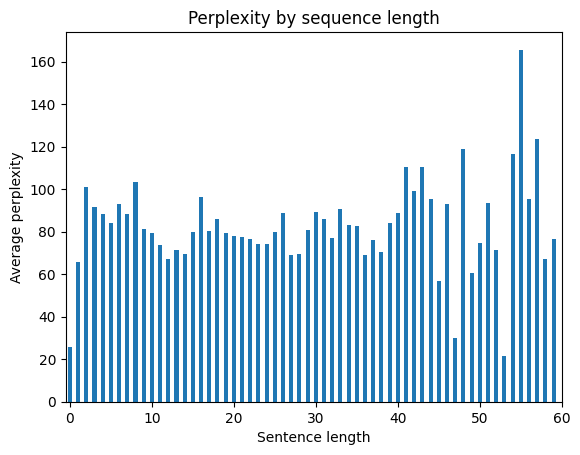
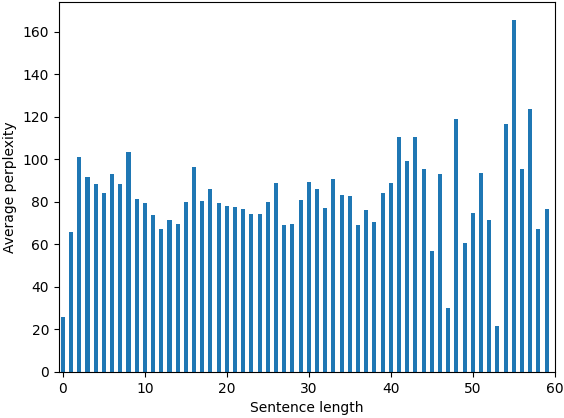
report looks complete

Changed region(s): [[0.0, 0.0, 1.0, 0.9952], [0.9645, 0.0, 0.9947, 0.0311]]

diff --git a/project/report/sections/5_eval.tex b/project/report/sections/5_eval.tex
@@ -13,7 +13,7 @@ In this work we are framing the learning problem as a multi-class classification
 \begin{equation}
     \text{CE} \parenth[\big]{f(x; \theta), y} = -\sum_{i=1}^{N} y_i \log{f(x_i; \theta)}
 \end{equation}
-where $f(x; \theta)$ is the model, $x$ is the input sequence, $y$ is the target sequence, $\theta$ is the set of model parameters and $N$ is the number of classes in the vocabulary. 
+% where $f(x; \theta)$ is the model, $x$ is the input sequence, $y$ is the target sequence, $\theta$ is the set of model parameters and $N$ is the number of classes in the vocabulary. 
 
 The main metric we used to compare and evaluate the models is the \emph{perplexity} (PP). The reason is that PP is a well understood and established metric and it correlates well enough with the model performances on real-world tasks. Although the PP can be defined in multiple ways, it is convenient to use the definition of PP as the exponential of the cross-entropy (CE):
 \begin{equation}
@@ -23,7 +23,7 @@ The main metric we used to compare and evaluate the models is the \emph{perplexi
 % Intuitively, the PP can be interpreted as the number of classes that the model is considering to make a prediction . 
 While the $CE$ gives a measure of how much the model is uncertain about the prediction, the PP can be interpreted as a measure of how many classes the model is considering to make a prediction (\emph{weighted branching factor}). The lower the PP, the less uncertain the model is on which word to predict, the better it is performing.
 
-Additionally, we are further evaluating the best-performing model to excerpt deeper insights in its behaviour. Specifically, we are considering \emph{average PP per sequence length}, \emph{per word predicted vs. target counts difference} and \emph{precision, recall} and \emph{F1 score}. Lastly, we are giving a qualitative evaluation of the model by showing some examples of generated sequences.
+Additionally, we are further evaluating the best-performing model to excerpt deeper insights in its behaviour. Specifically, we are considering \emph{average PP per sequence length}, \emph{per word predicted vs. target counts difference} and \emph{F1 score}. Lastly, we are giving a qualitative evaluation of the model by showing some examples of generated sequences.
 
 \subsection{Results}
 We evaluated every model by performing an evaluation epoch on the \emph{validation} and \emph{test} set with batch size $1$. The results of these evaluation runs are summarized in Tab.\ref{tab:results}.
@@ -32,55 +32,81 @@ We evaluated every model by performing an evaluation epoch on the \emph{validati
     \caption{Results (PP) of the experiments.}
     \label{tab:results}
 \end{table}
-It is worth noting that we decided to scrap \emph{Weight Dropout} on the hidden-to-hidden weight matrices of the LSTM layers. The reason is that the the model with the three dropout techniques (\texttt{merity\_ad}) was achieving worse results than the model with only \emph{Variational Dropout} and \emph{Embedding Dropout} (\texttt{merity\_eld}), as it can be seen in Fig\ref{fig:tl_merity_ads}.
+It is worth noting that we decided to scrap \emph{Weight Dropout} on the hidden-to-hidden weight matrices of the LSTM layers. The reason is that the the model with the three dropout techniques (\texttt{merity\_ad}) was achieving worse results than the model with only \emph{Variational Dropout} and \emph{Embedding Dropout} (\texttt{merity\_eld}), as it can be seen in Fig.\ref{fig:tl_merity_ads}.
 
-\begin{figure}
-    \centering
-    \includegraphics[width=.5\textwidth]{./assets/images/tl_merity_ads}
-    \caption{Training and validation loss  and PP of the models with dombined dropout techniques. The \texttt{merity\_eld} model uses only \emph{Variational Dropout} and \emph{Embedding Dropout}, the \texttt{merity\_ad} model uses all the three dropout techniques and \texttt{merity\_ad\_nohh} removes dropout on the hidden-to-hidden weight matrices in Weight Dropout.}
-    \label{fig:tl_merity_ads}
-\end{figure}
+% \begin{figure}[h!]
+%     \centering
+%     \includegraphics[width=.35\textwidth]{./assets/images/tl_merity_ads}
+%     \caption{
+%         Training and validation  PP of the models with dombined dropout techniques. %The \texttt{merity\_eld} model uses only \emph{Variational Dropout} and \emph{Embedding Dropout}, the \texttt{merity\_ad} model uses all the three dropout techniques and \texttt{merity\_ad\_nohh} removes dropout on the hidden-to-hidden weight matrices in \emph{Weight Dropout}.
+%         }
+%     \label{fig:tl_merity_ads}
+% \end{figure}
+
+\begin{figure*}
+
+    \floatsetup{floatrowsep=Qquad}
+    \begin{floatrow}
+        
+      \ffigbox[\FBwidth]{
+        \caption{
+        Training and validation  PP of the models with dombined dropout techniques. %The \texttt{merity\_eld} model uses only \emph{Variational Dropout} and \emph{Embedding Dropout}, the \texttt{merity\_ad} model uses all the three dropout techniques and \texttt{merity\_ad\_nohh} removes dropout on the hidden-to-hidden weight matrices in \emph{Weight Dropout}.
+        }
+        \label{fig:tl_merity_ads}}
+        {\includegraphics[width=.3\textwidth]{./assets/images/tl_merity_ads}}
+
+    \ffigbox[\FBwidth]{
+        \caption{Ablation study on \texttt{merity\_wd}.}
+        \label{fig:tl_merity_wd}}
+        {\includegraphics[width=.3\textwidth]{./assets/images/tl_merity_wd}}\hskip2em
+
+    \ffigbox[\FBwidth]{
+        \caption{Average PP per sequence length.}
+        \label{fig:avg_pp_per_seq_len}}
+        {\includegraphics[width=.3\textwidth]{./assets/images/ppl_by_len}}
+    \end{floatrow}
+    \end{figure*}
 
 Hence, we performed further experiments on the \texttt{merity\_wd} model. We found out that \texttt{merity\_wd\_nohh} was achieveng better results on the validation set, as in Fig\ref{fig:tl_merity_wd}. This behaviour is probably caused by the fact that dropping out the hidden-to-hidden weights prevents the model from effectively learn long-term dependencies in the sequences. In the end, we decided to keep the \texttt{merity\_ad\_nohh} model as it had the best performances and still little overfitting.
-\begin{figure}
-    \centering
-    \includegraphics[width=.5\textwidth]{./assets/images/tl_merity_wd}
-    \caption{Ablation study on \texttt{merity\_wd}.}
-    \label{fig:tl_merity_wd}
-\end{figure}
+% \begin{figure}[h!]
+%     \centering
+%     \includegraphics[width=.35\textwidth]{./assets/images/tl_merity_wd}
+%     \caption{Ablation study on \texttt{merity\_wd}.}
+%     \label{fig:tl_merity_wd}
+% \end{figure}
 
 For similar reason we decided to discard TBPTT as training algorithm, as it was not improving the performances, and stick with unconstrained BPTT. On the other end, the models with increased embedding and hidden sizes achieved better results; we also reduced the number of LSTM layers from $3$ to $2$ and increased the probabilities of the dropout techniques to account for the increased model size. Similar considerations hold for the usage of \emph{Partial Shuffle}, which ensures less overfitting at the expensive of slightly higher PPs; the reason is that partially shuffling the sentences increases variety in the training data, acting as a sort of data augmentation technique. Lastly, we performed an extensive training experiment on the \texttt{merity\_ad\_nohh\_1024\_ps} model, where we let it train until the validation loss would stop decreasing at epoch $96$; this final and best performing model model scored $83.01$ PP on the validation set and $79.86$ on the test set.
 
 \subsection{Analysis}
-This section is dedicated to the analysis of the best performing model, \texttt{merity\_ad\_nohh\_1024\_ps\_long}. We start by providing some examples of generated sequences, in the format: \emph{<prompt>} (<temperature>) $\rightarrow$ <inferred>:
+This section is dedicated to the analysis of the best performing model, \texttt{merity\_ad\_nohh\_1024\_ps\_long}. We start by providing some examples of generated sequences\footnote{In order to try and use the model, we recommend to use the  TUI application attached to this work.}, in the format: \texttt{<prompt>} (\textless temperature \textgreater) $\rightarrow$ \textless inferred \textgreater:
 \begin{itemize}
-    \item \emph{the} ($1.0$) $\rightarrow$ the major <unk> million foreign equipment received a \$ N million offer for federated and packaged goods companies;
-    \item \emph{the price} ($0.8$) $\rightarrow$ the price for the giant company is about \$ N million;
-    \item \emph{the price} ($1.0$) $\rightarrow$ the price advanced increase in the second quarter in workstations prompting the dollar to a steep rise in the week 's sharp climb in the imports growth of the;
+    \item \texttt{the} ($1.0$) $\rightarrow$ the major \texttt{<unk>} million foreign equipment received a \$ N million offer for federated and packaged goods companies;
+    \item \texttt{the price} ($0.8$) $\rightarrow$ the price for the giant company is about \$ N million;
+    \item \texttt{the price} ($1.0$) $\rightarrow$ the price advanced increase in the second quarter in workstations prompting the dollar to a steep rise in the week 's sharp climb in the imports growth of the;
 \end{itemize}
 
 We can see that the model is able to generate sequences that are roughly syntactically correct. However, the generated sequences are not semantically solid. This is probably due to the fact that the model is not able to learn the meaning of the words, but only their distribution in the sequences. Moreover, it seems that the model has consistent performances on shorter sequences and that it struggles more on longer sequences. This is also visible on the average PP per sequence length, as in Fig.\ref{fig:avg_pp_per_seq_len}: sentences of length shorter than $40$ tokens cause the model to score $60 \le PP \le 100$, slightly increasing as the length decreases. On the other hand, sentences of length longer than $40$ tokens have PP scores as high as $160$ and as low as $20$.
-\begin{figure}
-    \centering
-    \includegraphics[width=.45\textwidth]{./assets/images/ppl_by_len}
-    \caption{Average PP per sequence length.}
-    \label{fig:avg_pp_per_seq_len}
-\end{figure}
+% \begin{figure}[htb]
+%     \centering
+%     \includegraphics[width=.35\textwidth]{./assets/images/ppl_by_len}
+%     \caption{Average PP per sequence length.}
+%     \label{fig:avg_pp_per_seq_len}
+% \end{figure}
 
-If we inspect the counts of predicted and target words in Tab.\ref{tab:diff_counts}, we can see that the model heavily relies on the most present words in the dataset: the 5 most guessed words make up over $50\%$ of the total predictions, while the 5 most present words in the target sequences make up only $20\%$ of the total target words. All of the 10 most guessed words are over-represented in the predictions, except \emph{and} - roughly on par - and \emph{in} - which shows a slightly negative difference. Quite interestingly, the fact that the \emph{\textless eos \textgreater} token is over-represented may indicate that the model has not learned when it is most appropriate to terminate a sentence. 
+If we inspect the counts of predicted and target words in Tab.\ref{tab:diff_counts}, we can see that the model heavily relies on the most present words in the dataset: the 5 most guessed words make up over $50\%$ of the total predictions, while the 5 most present words in the target sequences make up only $20\%$ of the total target words. All of the 10 most guessed words are over-represented in the predictions, except \texttt{and} - roughly on par - and \texttt{in} - which shows a slightly negative difference. Quite interestingly, the fact that the \texttt{<eos>} token is over-represented may indicate that the model has not learned when it is most appropriate to terminate a sentence. 
 
-\begin{table}
+\begin{table}[hbt]
     \centering
     \input{./assets/tables/diff_counts.tex}
     \caption{Per word predicted vs. target counts difference.}
     \label{tab:diff_counts}
 \end{table}
 
-Finally, we can get some interesting insights by looking at the f1-score in Tab.\ref{tab:f1}. Quite expectedly, given the huge size of the targets space and the nature of the task of language modelling, most of the classes have a rather low f1-score; this behaviour is particularly noticeable in the most common words, like \emph{<unk>} ($0.23$) and \emph{the} ($0.34$). However, it is interesting to notate than some very specific words score higher values. If we take a look at the words with highest f1-score with support $\ge 100$, we can see interesting examples like \emph{million} ($0.68$) and \emph{N} ($0.62$), which may indicate that the model was effective in learning where to place numbers and to phrase them together. Scores can get even higher if we reduce the support threshold to $\ge 10$: words that may appear in very specific phrasings show pretty interesting scores (\emph{angeles} ($0.95$), \emph{share} ($0.8$), \emph{estate} ($0.79$)).
+Finally, we can get some interesting insights by looking at the f1-score in Tab.\ref{tab:f1}. Quite expectedly, given the huge size of the targets space and the nature of the task of language modelling, most of the classes have a rather low f1-score; this behaviour is particularly noticeable in the most common words, like \texttt{<unk>} ($0.23$) and \texttt{the} ($0.34$). However, it is interesting to notate than some very specific words score higher values. If we take a look at the words with highest f1-score with support $\ge 100$, we can see interesting examples like \texttt{million} ($0.68$) and \texttt{N} ($0.62$), which may indicate that the model was effective in learning where to place numbers and to phrase them together. Scores can get even higher if we reduce the support threshold to $\ge 10$: words that may appear in very specific phrasings show pretty interesting scores (\texttt{angeles} ($0.95$), \texttt{share} ($0.8$), \texttt{estate} ($0.79$)).
 
-\begin{table}
+\begin{table}[hbt]
     \centering
     \input{./assets/tables/f1.tex}
-    \caption{.}
+    \caption{predicted words ranked by F1 score with various filters on support.}
     \label{tab:f1}
 \end{table}

diff --git a/project/report/sections/4_model.tex b/project/report/sections/4_model.tex
@@ -15,7 +15,7 @@ We employed LSTMs\cite{hochreiter1997lstm} as backbone architecture, as they out
     \item a \emph{recurrent LSTM} layer, which processes the sequence of embeddings and outputs a sequence of hidden states;
     \item a \emph{fully-connected} layer, which maps the hidden states to a sequence of logits.
 \end{itemize}
-Specifically, we are employing two different architectures:
+We have implemented two different architectures:
 \begin{itemize}
     \item \emph{Baseline LSTM}: baseline model with a single-layer LSTM with \(300\) hidden units;
     \item \emph{Merity LSTM}: refined architecture featuring a set of regularization technique, which will be discussed later.
@@ -25,16 +25,16 @@ Specifically, we are employing two different architectures:
 The complete experiment pipeline is structured as follows.
 \begin{enumerate}
     \item \emph{Data loading}: the dataset is downloaded, extracted and loaded into memory.
-    \item \emph{Data pre-processing}: the dataset is pre-processed to be ready to be fed to the model. Specifically, the following operations are performed:
+    \item \emph{Data pre-processing}: in order to be ready to be fed to the model, the following operations are performed:
     \begin{itemize} 
         \item each sentence is tokenized by splitting on whitespaces;
         \item a \texttt{<eos>} token is appended to each sentence;
         \item the vocabulary mappings are created.
     \end{itemize}
-    \item \emph{Data batching and  collation}: the dataset is batched to be fed to the model; specifically, the dataset is padded to the length of the longest sequence in the batch before the batch is collated to be fed to the model. Furthermore, the collate function can also perform the following operations depending on the model configuration:
+    \item \emph{Data batching and  collation}: the dataset is padded to the length of the longest sequence in the batch before the batch is collated to be fed to the model. Additionally, depending on the experiment configuration the collate function can also perform the following operations:
     \begin{itemize}
-        \item the sentences can be split into chunks of a fixed length to implement Truncated Backpropagation Through Time (TBPTT);
-        \item the sentences can be partially shuffled.
+        \item it can split sentences into chunks of a fixed length to implement TBPTT;
+        \item it can partially shuffle sentences.
     \end{itemize}
     \item \emph{Model training}: the model is trained on the training set; we will also perform a validation epoch on the validation set in order to monitor the model learning behaviour and to tune the hyper-parameters.
     \item \emph{Model evaluation}: the model is evaluated on the test set according to the evaluation metrics and pipeline (see Sec.\ref{sec:5_eval}).
@@ -43,22 +43,24 @@ The complete experiment pipeline is structured as follows.
 \subsection{Regularization}
 Sequence models are prone to overfitting, as they are trained on long sequences and they have to capture long-term dependencies. To cope with this problem, we employed the following regularization techniques suggested by \cite{merity2017regularizing}:
 \begin{itemize}
-    \item \emph{Variational Dropout}\cite{gal2016theoretically}: a dropout technique which samples a binary mask that drops the same units across time-steps, in order to ensure temporal consistency;
-    \item \emph{Embedding Dropout}\cite{gal2016theoretically}: a dropout technique which drops some connection in the embedding layer; this is equivalent to dropping some words from the vocabulary, in order to prevent the model from relying too much on specific words and to improve generalization;
-    \item \emph{DropConnect}\cite{wan2013dropconnect}: a dropout technique which shuts down some connections in the hidden-to-hidden weight matrices of the LSTM layers by setting the weights of the target connections to $0$, in order to control overfitting on the recurrent connections;
-    \item \emph{Weights Initialization}: initializing the weights can help the model to converge faster; specifically, we are initializing the weights of the LSTM layers according to the  \emph{Xavier Uniform} distribution\cite{glorot2010understanding} and the weights of the sparse embedding from a  \emph{Uniform} distribution in the range \([-0.1, 0.1]\);
-    \item \emph{Weight Tying}\cite{press2017tying}: a technique which ties the weights of the embedding layer and the output layer, in order to reduce model parameters and to improve generalization;
-    \item \emph{Gradient Clipping}: a technique which clips the gradients to a maximum norm, in order to prevent gradient explosion;
-    \item \emph{Partial Shuffle}\cite{press2019partially}: a technique which rotates each sentence in a batch by a random offset, in order to improve generalization;
-\end{itemize}
+    \item \emph{Variational Dropout}\cite{gal2016theoretically}: it samples a binary mask that drops the same units across time-steps, to ensure temporal consistency;
+    \item \emph{Embedding Dropout}\cite{gal2016theoretically}: it drops some connections in the embedding layer; it is equivalent to dropping some words from the vocabulary, in order to prevent the model from relying too much on specific words;
+    \item \emph{DropConnect}\cite{wan2013dropconnect}: it shuts down some connections in the hidden-to-hidden weight matrices by setting the weights of the target connections to $0$, to control overfitting on the recurrent connections;
+    \item \emph{Weights Initialization}: initializing the weights can help the model to converge faster; specifically, we are initializing the LSTM layers according to the  \emph{Xavier Uniform} distribution\cite{glorot2010understanding} and the sparse embedding from a  \emph{Uniform} distribution in the range \([-0.1, 0.1]\);
+    \item \emph{Weight Tying}\cite{press2017tying}: we tye the weights of the embedding layer and the output layer, in order to reduce model parameters;
+    \item \emph{Gradient Clipping}: we clip the gradients to a maximum norm, in order to prevent gradient explosion;
+    \item \emph{Partial Shuffle}\cite{press2019partially}: each sentence in a batch is rotated by a random offset, in order to improve generalization;
+\end{itemize}\
+\paragraph*{TBPTT}
 Additionally, we used \emph{Truncated Backpropagation Through Time} (TBPTT) to train the model. As suggested in \cite{merity2017regularizing}, we are using $k_1 = k_2 = k$, which means that we are splitting the sentences into chunks of a fixed length and backpropagating the error only through the chunks, which allows for a more efficient usage of training samples. Specifically, the split step $k$ is sampled from a Gaussian $\mathcal{N}(\textrm{seq}, \sigma^2)$ with probability $p$ and from $\mathcal{N}(\frac{\textrm{seq}}{2}, \sigma^2)$ with probability $1-p$. However, we are using $30$ in place of $70$ as value for $\textrm{seq}$. The motivation is to be found in the dataset statistics. Recalling Tab.\ref{tab:statistics}, we know that the mean sentence length is around $20$, and the standard deviation is $10$, which means that the majority of the sentences are shorter than $30$ words and would not undergo any processing if $70$ was the mean of the Gaussian.
 
-\subsection{Optimization}
+\paragraph*{Optimization}
 We used mostly \emph{SGD} and its variation \emph{NT-ASGD}\cite{merity2017regularizing} as optimizers. We also performed some experiments with \emph{Adam}, but we did not observe any improvement in the model performance. We also employ a \emph{Learning Rate Scheduler} which reduces the learning rate by a factor of $0.5$ when the validation loss does not improve for $3$ epochs.
 
 \subsection{Experiments}
 Unless otherwise specified, we used a batch size of $128$ and we trained the models for $50$ epochs and used SGD with \emph{learning rate} $= 1$ and \emph{weight decay} $=1\cdot 10^{-6}$. All the experiments were conducted on a NVIDIA GeForce RTX 3050 GPU with 4GB of VRAM.
 \paragraph*{Baseline} 
-We perfomerd a first experiment with the default configuration to set a baseline for our study. Then, before moving on to the refined architecture, we performed a second experiment were we simply add a \emph{Dropout} layer with $p=0.5$ after the LSTM layer. We also tried to use \emph{Adam} as optimizer, but we did not observe any improvement in the model performance.
+We perfomerd a first experiment with the default configuration to set a baseline for our study. Then, %before moving on to the refined architecture, 
+we performed a second experiment were we simply add a \emph{Dropout} layer with $p=0.5$ after the LSTM layer.% We also tried to use \emph{Adam} as optimizer, but we did not observe any improvement in the model performance.
 \paragraph*{Merity LSTM}
-This is our implementation of the AWD-LSTM model proposed in \cite{merity2017regularizing}. We decided to start by adding the dropout and regularization techniques individually and then combining them in different configurations, in order to understand their contribution and keep only the best performing ones in a greedy fashion. Subsequently, motivated by the fact that NNs benefit for growing in depth in many tasks and that the aforementioned techniques proved to be able to present overfitting, we increased the size of the model by increasing the sizes of both the embedding and the hidden representation. Lastly, we picked the best performing model and we performed an extensive training experiment, where we let it train until the validation loss would stop decreasing.
+This is our implementation of the AWD-LSTM model proposed in \cite{merity2017regularizing}. We started by adding the dropout and regularization techniques individually and then combining them in different configurations, in order to understand their contribution and keep only the best performing ones, in a greedy fashion. Subsequently, motivated by the fact that NNs benefit from growing in depth in many tasks and that the aforementioned techniques proved to be able to present overfitting, we increased the size of the model by increasing the sizes of both the embedding and the hidden representation. Lastly, we picked the best performing model and we performed an extensive training experiment, where we let it train until the validation loss would stop decreasing.

diff --git a/project/report/sections/2_task.tex b/project/report/sections/2_task.tex
@@ -10,6 +10,6 @@ A \emph{language model} is a probablity distribution over sequences of words. Su
 
 The underlying assumption is that sentences in natural languages have \emph{structure}, hence we can compute the joint distribution from data, i.e. \emph{corpora}. However, this setting is challenged by several properties of natural languages. Although we can trace some general schemes for structure - e.g. word orders like VSO, SVO, \emph{et cetera} - natural languages allow non-standard phrasing; moreover, they allow sentences to grow up to arbitrary lengths. More generally, it is not possible to compute statistics for the sentences space, which has to be considered unbounded in the scope of this task.
 
-To cope with this problem, we can compute statistics for a word considering a small window of preceeding words. Formally, motivated by the Markov Assumption, we think of this process as mapping the original space into a smaller one, for which we can easily compute statistics: these language models are called \emph{n}-gram language models, and they usually consider bigram probabilities - \(P \parenth[\big]{w_i | w_1^{(i-1)}} \approx P \parenth[\big]{w_i | w_{i-1}}\) - or trigram probabilities - \(P\parenth[\big]{w_i | w_1^{(i-1)}} \approx P \parenth[\big]{w_i | w_{i-2}^{(i-1)}}\).
+To cope with this problem, we can compute statistics for a word considering a small window of preceeding words. Formally, motivated by the Markov Assumption, we think of this process as mapping the original space into a smaller one, for which we can easily compute statistics: these language models are called \emph{n}-gram language models.%, and they usually consider bigram probabilities - \(P \parenth[\big]{w_i | w_1^{(i-1)}} \approx P \parenth[\big]{w_i | w_{i-1}}\) - or trigram probabilities - \(P\parenth[\big]{w_i | w_1^{(i-1)}} \approx P \parenth[\big]{w_i | w_{i-2}^{(i-1)}}\).
 
 Currently, state-of-the-art language models are \emph{Neural language models}, i.e. language models that use neural network models to perform embeddings and approximate the distribution. In particular, the first effective models to be employed where Recurrent Neural Networks, such as LSTMs and GRUs; last developments revolve around attention-based models\cite{vaswani2023attention}, and specifically Transformers such as BERT\cite{devlin2018bert} and GPT\cite{radford2019Language2}\cite{brown2020language3}. 

diff --git a/project/report/sections/1_intro.tex b/project/report/sections/1_intro.tex
@@ -1,6 +1,6 @@
 \section{Introduction}
 % approx. 100 words
-This document is the final report for the course \emph{Natural Language Understanding} of the Master's Degree in Artificial Intelligence Systems at the University of Trento in the A.Y.2021/2022. The goal of the project is to implement a language model based on LSTMs\cite{hochreiter1997lstm} and to evaluate its performances on the word-level Penn Treebank\cite{marcus1993building} dataset and achieve a perplecity score $\le 90.7$. In this work:
+This document is the final report for the course \emph{Natural Language Understanding}, held at the University of Trento in the A.Y.2021/2022. The goal of the project is to implement a language model based on LSTMs and to evaluate its performances on the word-level Penn Treebank dataset and achieve a perplexity score $\le 90.7$. In this work:
 \begin{itemize}
     \item we analyzed the dataset;
     \item we implemented and trained a baseline LSTM model and a refined regularized LSTM model;
@@ -8,4 +8,4 @@ This document is the final report for the course \emph{Natural Language Understa
     \item we evaluated the models and performed an in-depth analysis of the best performing model behaviour;
     \item we created a TUI application to easily interact with the model and use it to generate sentences.
 \end{itemize}
-The final model achieved a perplexity score of $79.86$ on the test set. The code for this project is available at \url{https://github.com/filippodaniotti/NLU-UniTN-2022}
+The final model achieved a perplexity score of $79.86$ on the test set. The code for this project is available at \url{https://github.com/filippodaniotti/NLU-UniTN-2022}.

diff --git a/project/report/main.tex b/project/report/main.tex
@@ -1,16 +1,12 @@
-\documentclass[a4paper]{article}
+\documentclass[a4paper, 10pt]{article}
 \usepackage{INTERSPEECH2021}
 
-% \usepackage{amsmath,amssymb,amsfonts}
-% \usepackage[ruled]{algorithm2e}
-% \usepackage[hidelinks]{hyperref}
+\usepackage{amsmath,amssymb,amsfonts}
+\usepackage[hidelinks]{hyperref}
 \usepackage{cleveref}
-% \usepackage{array, booktabs, makecell}
-% \usepackage{graphicx,float}
-% \usepackage{textcomp}
-% \usepackage{xcolor}
-% \usepackage{caption}
-% \usepackage{subcaption}
+\usepackage{graphicx, floatrow}
+
+\DeclareFloatSeparators{Qquad}{\hskip2em}
 
 % args: big, bigg, Big, Bigg
 \newcommand{\parenth}[2][]{#1(#2#1)}

diff --git a/project/report/sections/3_data.tex b/project/report/sections/3_data.tex
@@ -36,7 +36,7 @@ The analysis of the most frequent words in the train split reveals that the most
 
 \begin{figure}[!t]
     \centering
-    \includegraphics[keepaspectratio,width=.5\textwidth]{assets/images/train_freq.png}
+    \includegraphics[keepaspectratio,width=\textwidth]{assets/images/train_freq.png}
     \caption{Frequency distribution of the 10 most frequent words (Train)} 
     \label{fig:train_freq}
 \end{figure}
